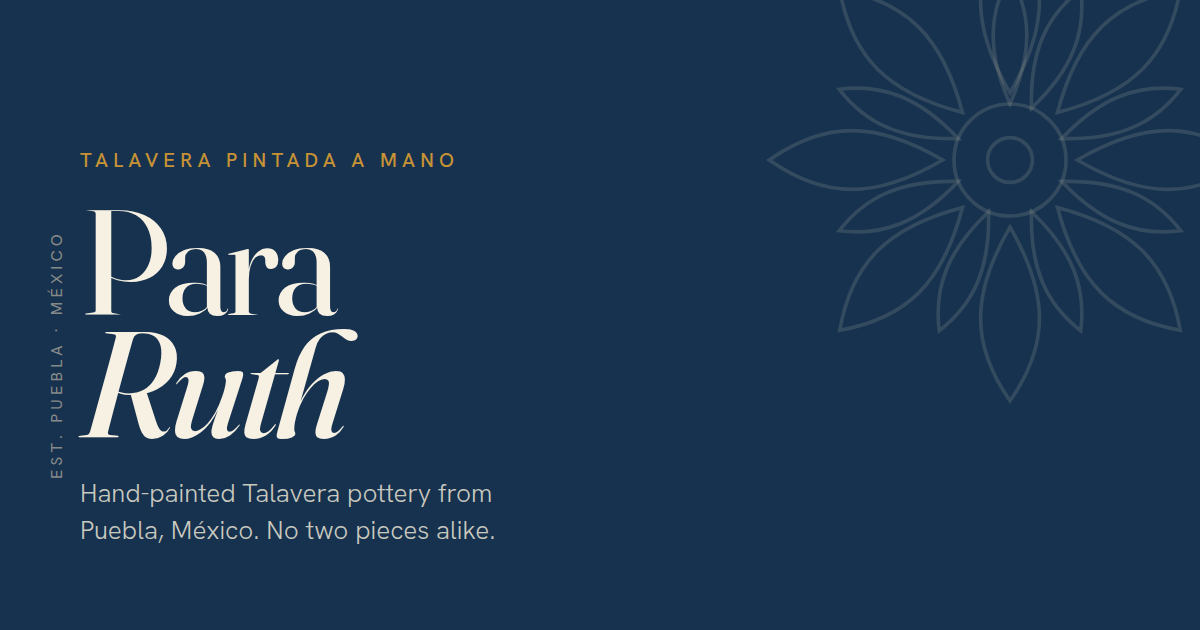
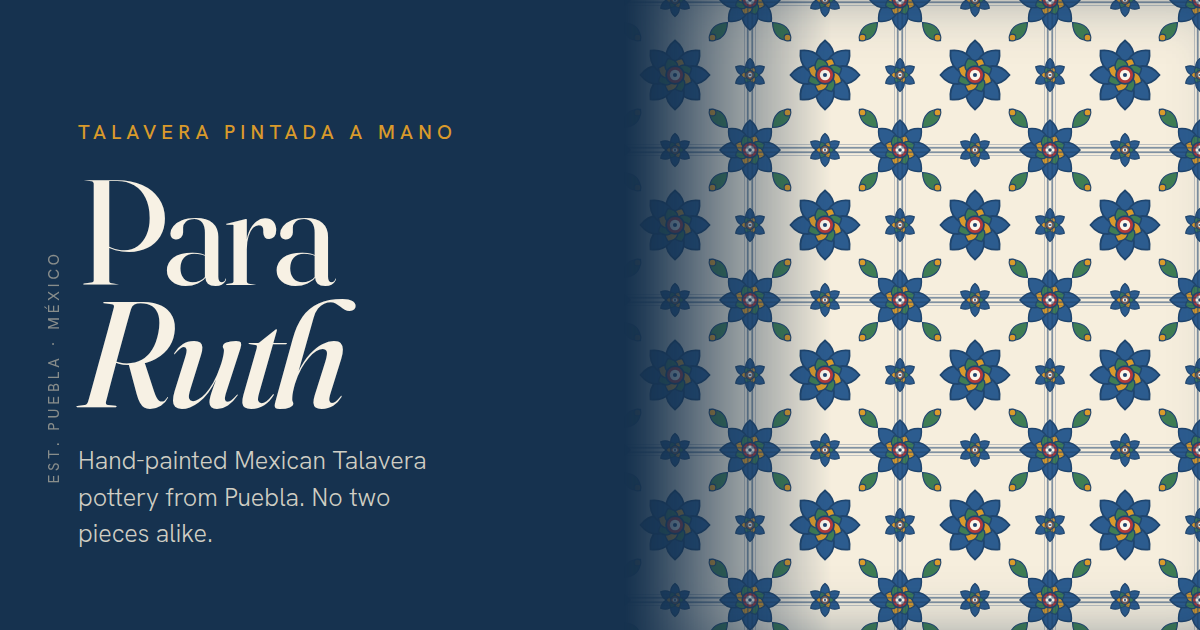
Design polish: refreshed OG card + motion layer
- Regenerate assets/og-image.png to mirror the new tiled azulejo hero
  (polychrome tile panel fading into cobalt behind the wordmark).
- Add a progressive-enhancement motion layer (no-JS still renders fully,
  prefers-reduced-motion fully respected):
  * Hero entrance — wordmark lines rise in sequence, tile wall drifts in.
  * Scroll reveals via IntersectionObserver for sections, pieces, facts
    (staggered), one-shot so they don't replay.
  * Condensing masthead with shadow on scroll.
  * Subtle vertical parallax on the hero tile field.
  * Product figures: contained slow zoom + an azulejo frame that draws
    in on hover.

https://claude.ai/code/session_01JrCa39bcHtt2va2QnZhTZd

diff --git a/talavera-shop/css/styles.css b/talavera-shop/css/styles.css
@@ -460,3 +460,48 @@ h1, h2, h3 { font-family: var(--display); font-weight: 500; margin: 0; line-heig
   .hero { padding-bottom: 4.75rem; }
   .cenefa-band { height: 38px; background-size: auto 38px; }
 }
+
+/* ============================================================
+   MOTION — entrance, scroll reveals, hover (progressive; only
+   active once JS adds .js-ready, so no-JS/SEO sees everything)
+   ============================================================ */
+
+/* condensing masthead on scroll */
+.masthead { transition: padding .35s ease, box-shadow .35s ease, background .35s ease; }
+.masthead.scrolled {
+  padding-top: .6rem; padding-bottom: .6rem;
+  box-shadow: 0 12px 30px -22px rgba(22,50,79,.55);
+  background: color-mix(in srgb, var(--paper-0) 94%, transparent);
+}
+
+/* hero entrance: type rises in sequence, tiles drift in from the side */
+html.js-ready .hero-type > * { opacity: 0; transform: translateY(20px); transition: opacity .8s ease, transform .8s cubic-bezier(.22,.61,.36,1); transition-delay: calc(var(--i, 0) * .09s + .1s); }
+html.js-ready .hero.is-in .hero-type > * { opacity: 1; transform: none; }
+html.js-ready .hero-rail { opacity: 0; transition: opacity 1s ease .5s; }
+html.js-ready .hero.is-in .hero-rail { opacity: 1; }
+html.js-ready .hero-tiles { opacity: 0; transform: translateX(34px); transition: opacity 1.2s ease, transform 1.2s cubic-bezier(.22,.61,.36,1); }
+html.js-ready .hero.is-in .hero-tiles { opacity: .97; transform: none; }
+
+/* generic scroll reveal */
+html.js-ready .reveal { opacity: 0; transform: translateY(26px); transition: opacity .7s ease, transform .8s cubic-bezier(.22,.61,.36,1); transition-delay: calc(var(--i, 0) * .07s); }
+html.js-ready .reveal.in { opacity: 1; transform: none; }
+
+/* product figures: contain a slow zoom + an azulejo frame that draws on hover */
+.piece-figure { overflow: hidden; }
+.piece-figure img { transition: transform .9s cubic-bezier(.22,.61,.36,1), filter .5s ease; }
+.piece-figure::after {
+  content: ""; position: absolute; inset: 10px; pointer-events: none;
+  border: 1.5px solid rgba(247,241,228,.0);
+  box-shadow: inset 0 0 0 1px rgba(31,69,110,0);
+  transition: border-color .5s ease, box-shadow .5s ease, inset .5s ease;
+}
+.piece-figure:hover img { transform: scale(1.045); filter: saturate(1.08); }
+.piece-figure:hover::after { border-color: rgba(247,241,228,.85); box-shadow: inset 0 0 0 5px rgba(31,69,110,.22); }
+
+@media (prefers-reduced-motion: reduce) {
+  html.js-ready .reveal,
+  html.js-ready .hero-type > *,
+  html.js-ready .hero-rail,
+  html.js-ready .hero-tiles { opacity: 1 !important; transform: none !important; transition: none !important; }
+  .piece-figure:hover img { transform: none; }
+}

diff --git a/talavera-shop/js/main.js b/talavera-shop/js/main.js
@@ -78,3 +78,63 @@ document.getElementById("newsForm").addEventListener("submit", (e) => {
 document.getElementById("year").textContent = new Date().getFullYear();
 
 render();
+
+/* ===== Motion (progressive enhancement) ===========================
+   Content is visible without JS; these effects only switch on once we
+   add `js-ready`, and CSS disables them under prefers-reduced-motion. */
+(function () {
+  const root = document.documentElement;
+  root.classList.add("js-ready");
+  const reduce = matchMedia("(prefers-reduced-motion: reduce)").matches;
+
+  /* hero entrance — type rises in sequence, tiles drift in */
+  const hero = document.querySelector(".hero");
+  if (hero) {
+    [...hero.querySelectorAll(".hero-type > *")].forEach((el, i) => el.style.setProperty("--i", i));
+    requestAnimationFrame(() => requestAnimationFrame(() => hero.classList.add("is-in")));
+  }
+
+  /* scroll reveals */
+  const sels = [
+    ".manifesto .m-statement", ".manifesto .m-note",
+    ".ledger", ".piece", ".cenefa-band",
+    ".story-eyebrow", ".story-quote",
+    ".about-talavera .at-head", ".about-talavera .at-body",
+    ".signup h2", ".signup-form",
+  ];
+  const targets = [];
+  sels.forEach((s) => document.querySelectorAll(s).forEach((el) => { el.classList.add("reveal"); targets.push(el); }));
+  document.querySelectorAll(".story-facts > div").forEach((el, i) => {
+    el.classList.add("reveal"); el.style.setProperty("--i", i); targets.push(el);
+  });
+
+  if ("IntersectionObserver" in window) {
+    const io = new IntersectionObserver((entries) => {
+      entries.forEach((e) => { if (e.isIntersecting) { e.target.classList.add("in"); io.unobserve(e.target); } });
+    }, { rootMargin: "0px 0px -12% 0px", threshold: 0.12 });
+    targets.forEach((el) => io.observe(el));
+  } else {
+    targets.forEach((el) => el.classList.add("in"));
+  }
+
+  /* condensing masthead */
+  const mast = document.querySelector(".masthead");
+  if (mast) {
+    const onScroll = () => mast.classList.toggle("scrolled", window.scrollY > 24);
+    onScroll();
+    addEventListener("scroll", onScroll, { passive: true });
+  }
+
+  /* subtle hero-tile parallax */
+  const tiles = document.querySelector(".hero-tiles");
+  if (tiles && !reduce) {
+    let ticking = false;
+    addEventListener("scroll", () => {
+      if (ticking) return; ticking = true;
+      requestAnimationFrame(() => {
+        tiles.style.backgroundPositionY = Math.min(window.scrollY, 800) * 0.16 + "px";
+        ticking = false;
+      });
+    }, { passive: true });
+  }
+})();
